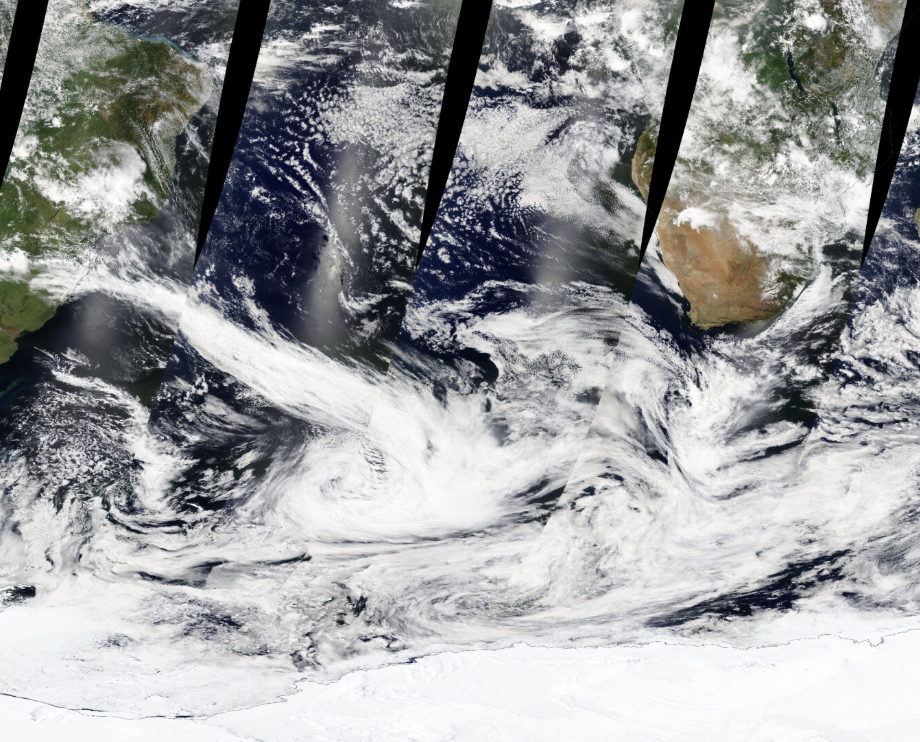
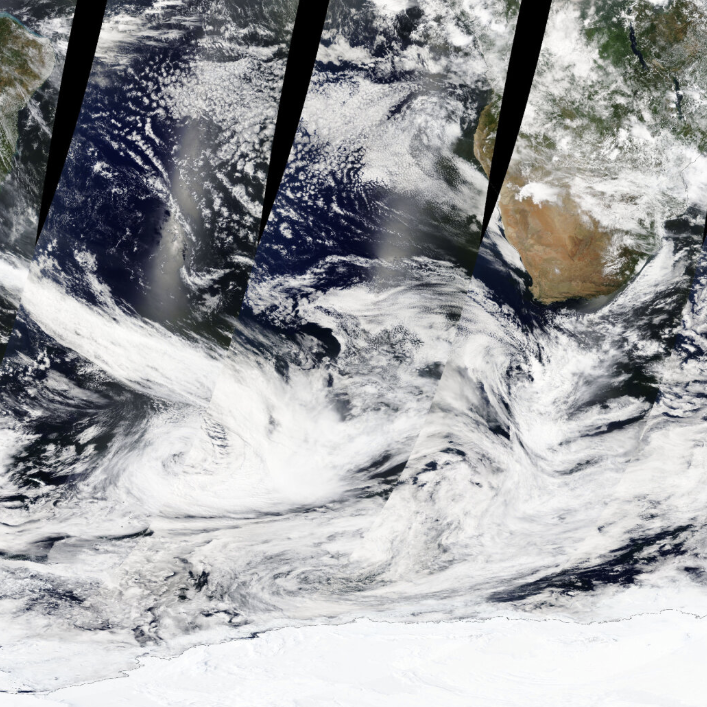
projects update

diff --git a/_sass/_variables.scss b/_sass/_variables.scss
@@ -63,8 +63,8 @@ $darker-gray                : mix(#000, $gray, 60%);
 $light-gray                 : mix(#fff, $gray, 50%);
 $lighter-gray               : mix(#fff, $gray, 90%);
 
-$body-color                 : #f8f5f2;
-$background-color           : #f8f5f2;
+$body-color                 : #fdfbfb;
+$background-color           : #fdfbfb;
 $code-background-color      : #efece9;
 $code-background-color-dark : $light-gray;
 $text-color                 : $darker-gray;

diff --git a/_sass/_page.scss b/_sass/_page.scss
@@ -259,7 +259,7 @@
 
 .page__meta {
   margin-top: 2em;
-  color: mix(#fff, $gray, 25%);
+  color: mix(#fff, $gray, 100%);
   font-family: $sans-serif;
   font-size: $type-size-6;
 

diff --git a/_pages/research.md b/_pages/research.md
@@ -13,44 +13,39 @@ redirect_from:
 # Research
 ---
 
-<br>
-
-<div class="team-row" style="display: flex; gap: 1.5rem; margin-top: 1rem; align-items: flex-start;">
-
-  <div style="flex: 0 0 75%;">
-    <h3 style="margin-top: 0;">Fine-scale ocean dynamics</h3>
-    <p style="text-align: left; font-size: 0.9rem;">
-      My research is primarily centered on fine-scale ocean dynamics, in particular the energetic fronts, filaments, and submesoscale eddies that are ubiquitous in the upper ocean, especially in the stormy Southern Ocean. These features are typically only a few to tens of kilometers wide, but they can extend hundreds of kilometers in length and penetrate hundreds of meters deep, where they stir and overturn water masses, sharpen density gradients, and drive vigorous vertical motions. When they do so, they strongly modulate air–sea exchanges of heat, moisture, and carbon dioxide, imprinting the passage of storms on the upper ocean and shaping the structure and variability of the ocean mixed layer.
-      
-      <br><br>
-
-      Fine-scale fronts and filaments are numerous, collectively influencing how efficiently the ocean takes up anthropogenic heat and CO2, and how that uptake is distributed in space and depth. Biases in the representation of these small-scale processes in climate models can therefore lead to errors in simulated stratification, mixed-layer depth, and air–sea fluxes, with knock-on effects for large-scale ocean circulation and climate projections. To better understand and constrain these dynamics, I combine multi-platform observations from autonomous ocean robotics, research vessels, and satellites with high-resolution coupled models and boundary-layer frameworks.
-    </p>
-  </div>
-
-  <div class="photo-frame" style="flex: 0 0 25%;">
-    <img src="/images/sms_schematic.png" alt="sms-schematic" style="width: 100%; height: auto;">
-  </div>
-
-</div>
+Our research aims to uncover small-scale ocean dynamics and their interactions with the atmosphere so that we can better understand our Earth system, and the role of unseen processes on the changing climate. 
 
 <br>
 
-<div class="team-row" style="display: flex; gap: 1.5rem; margin-top: 1rem; align-items: flex-start;">
-  <div class="photo-frame" style="flex: 0 0 30%;">
-    <img src="/images/storm-so.png" alt="sms-schematic" style="width: 100%; height: auto;">
+<div style="display: flex; flex-wrap: wrap; gap: 5rem; margin-top: 1rem; align-items: flex-start;">
+
+  <div style="flex: 1 1 200px; min-width: 0; text-align: center;">
+    <a href="/fine-scale-dynamics/">
+      <img src="/images/spiral-eddies.jpeg" alt="sms-schematic" style="width: 100%; height: auto; border-radius: 6px;">
+    </a>
+    <h3 style="margin-top: 1rem;">
+      <a href="/fine-scale-dynamics/">Ocean fine-scale dynamics</a>
+    </h3>
   </div>
 
-  <div style="flex: 0 0 70%;">
-    <h3 style="margin-top: 0;">Storm dynamics</h3>
-    <p style="text-align: left; font-size: 0.9rem;">
-      My research also focuses on storm dynamics, particularly how extratropical storms in the Southern Ocean mix and ventilate the upper few hundred meters of the ocean. As storms pass, their intense winds, rain, and rapidly evolving atmospheric fronts drive strong turbulent mixing, deepen the mixed layer, and tilt and sharpen ocean fronts, leaving behind vertical and lateral structure that can persist long after the weather has moved on. These episodic events strongly modulate air–sea exchanges of heat and carbon dioxide, imprinting high-frequency variability on fluxes that can integrate over seasons to influence the net uptake of anthropogenic heat and CO2 by the Southern Ocean.
-
-      <br><br>
-      
-      Storm systems are frequent and energetic, especially in the high-latitude Southern Ocean, playing a disproportionate role in setting the seasonal cycle of upper-ocean stratification, sea-surface temperature, and surface CO2. Biases in how storms and their associated mixing are represented in models can therefore translate into errors in simulated air–sea fluxes and climate feedbacks. To investigate these processes, I combine targeted storm-following observations from autonomous platforms such as gliders and Wave Gliders with ship-based measurements, satellites, and mixed-layer and boundary-layer models that resolve the coupled evolution of storms and the ocean beneath them.
-    </p>
+  <div style="flex: 1 1 200px; min-width: 0; text-align: center;">
+    <a href="/air-sea-interactions/">
+      <img src="/images/airsea.jpg" alt="storm-so" style="width: 100%; height: auto; border-radius: 6px;">
+    </a>
+    <h3 style="margin-top: 1rem;">
+      <a href="/air-sea-interactions/">Air-sea interactions</a>
+    </h3>
   </div>
+
+  <div style="flex: 1 1 200px; min-width: 0; text-align: center;">
+    <a href="/antarctic-sea-ice/">
+      <img src="/images/sea-ice-square.jpg" alt="sea-ice" style="width: 100%; height: auto; border-radius: 6px;">
+    </a>
+    <h3 style="margin-top: 1rem;">
+      <a href="/sea-ice-antarctica/">Antarctic sea-ice processes</a>
+    </h3>
+  </div>  
+
 </div>
 
 <br>
@@ -58,12 +53,11 @@ redirect_from:
 # Current projects
 ---
 
-I have recieved several grants and awards that support my research, with a total value of 40 million SEK. My ongoing projects include:
-
-
-- European Research Council (ERC) Starting Grant [Southern Ocean Fine-Scale Interactions with the Atmosphere (SOFIA)](https://www.gu.se/en/news/erc-starting-grant-to-research-on-southern-oceans-critical-climate-function), 2026-2031.
-- Vetenskapsrådet (VR) Establishment Grant: [Storm impacts on Southern Ocean heat and CO2 uptake uncertainty](https://www.gu.se/en/research/how-understanding-storms-reduces-southern-ocean-heat-and-co2-uptake-uncertainty), 2025-2028.
-- Carl Tryggers Foundation Grant: [Observing and quantifying the effects of atmospheric storms on air-sea heat exchange](https://www.carltryggersstiftelse.se/this-is-the-carl-trygger-foundation/), 2026-2028.
+- European Research Council (ERC) Starting Grant [Southern Ocean Fine-Scale Interactions with the Atmosphere (SOFIA)](https://www.gu.se/en/news/erc-starting-grant-to-research-on-southern-oceans-critical-climate-function), 2026-2031
+- Vetenskapsrådet Strategic Funding: The Southern Ocean as Earth's Thermostat: Driving Forces, Variability, and Predictability, 2026-2031
+- Carl Tryggers Foundation Grant: Observing and quantifying the effects of atmospheric storms on air-sea heat exchange, 2026-2028
+- Synchronous Southern Ocean Observatory (SYNCHRONY, Horizon Europe), 2026-2030
+- WHIRLS, The impacts of ocean fine-scale whirls on climate and ecosystems, 2024-2030
 
 <br><br>
 
@@ -74,10 +68,6 @@ I have recieved several grants and awards that support my research, with a total
 
   <div class="logo" style="text-align: center;">
     <img src="/images/sofia.png" alt="sofia" style="width: 100%; max-width: 350px;">
-  </div>
-
-  <div class="logo" style="text-align: center;">
-    <img src="/images/erc.png" alt="erc" style="width: 80%; max-width: 250px;">
   </div>
 
   <a href="https://marcelduplessis.github.io/sofia/" class="btn" style="margin-top: 0.5rem;">
@@ -91,11 +81,11 @@ I have recieved several grants and awards that support my research, with a total
   <h2 style="margin-top: 0;">Southern Ocean Fine-Scale Interactions with the Atmosphere (SOFIA)</h2>
 
   <a href="https://erc.europa.eu/apply-grant/starting-grant">European Research Council Starting Grant</a> under Horizon Europe, 2026-2031<br>
-  <strong>Funding:</strong> 2.5m € + 3.75m SEK as GU co-financing
+  <strong>Funding:</strong> 30.5 million SEK
 
-  <p>The SOFIA project aims to uncover the key physical processes that move heat between the atmosphere, the ocean surface, and the deep ocean in the stormy Southern Ocean. My research explores two main questions: how powerful storms drive the exchange of heat between air and sea, and how swirling ocean fronts, eddies, and narrow filaments transport that heat into the ocean interior.</p>
+  <p>The SOFIA project explores two main questions: how powerful storms drive the exchange of heat between air and sea, and how swirling ocean fronts, eddies, and narrow filaments transport that heat into the ocean interior.</p>
 
-  <p>To tackle these challenges, I combine cutting-edge coupled ocean-atmosphere simulations with new in-situ observations collected by autonomous robotic platforms in one of the most remote parts of the planet. I also use data from ESA’s Surface Water and Ocean Topography (SWOT) satellite to map vertical ocean motion across the entire Southern Ocean.</p>
+  <p>To answer these questions, we combine cutting-edge coupled ocean-atmosphere simulations with new in-situ observations collected by autonomous robotic platforms in one of the most remote parts of the planet. We will also take advantage of ESA’s Surface Water and Ocean Topography (SWOT) satellite to map vertical ocean motion across the entire Southern Ocean.</p>
 
   <p>Together, these efforts will build a clearer and more predictive understanding of how the ocean regulates Earth’s climate — knowledge that’s essential for improving future climate projections.</p>
 

diff --git a/_pages/about.md b/_pages/about.md
@@ -9,23 +9,28 @@ author_profile: true
 #   caption: "Credit: Hector Torres @ JPL-NASA"
 ---
   
-# About
+# Welcome
 
-I am a physical oceanographer at the [Department of Marine Sciences](https://www.gu.se/en/marina-vetenskaper), University of Gothenburg. I lead a research team interested in the physical processes governing the exchange of heat, moisture, and carbon dioxide between the ocean and atmosphere. We focus on how ocean dynamics of scales 1-100 km and rapdily evolving atmospheric weather systems control the exchange of these climate-critical properties across the air-sea interface and into the ocean interior. Our goal is to advance our understanding of the factors that regulate our changing climate.
+I'm a physical oceanographer at the [Department of Marine Sciences](https://www.gu.se/en/marina-vetenskaper), University of Gothenburg. My research focuses on the physical processes governing the exchange of heat, moisture, and carbon dioxide between the ocean and atmosphere. I work with a team of talented and hard working people, with a goal to advance our understanding of the ocean's role in our climate. Specifically, we focus on how ocean dynamics, ranging from microscale turbulence to mesoscale dynamics, interact with rapdily evolving atmospheric weather systems to control the transfer of climate-critical properties across the air-sea interface and into the ocean interior. 
 
-Our research is supported by a Swedish Research Council Establishment Grant (2025-2028), an ERC Starting Grant (SOFIA, 2026-2031), and a Carl Tryggers Foundation Equipment Grant (2026-2028). You can read more about our newly funded [SOFIA project](https://marcelduplessis.github.io/sofia/) and the [Swedish Research Council project](https://www.gu.se/en/research/how-understanding-storms-reduces-southern-ocean-heat-and-co2-uptake-uncertainty). Please get in touch if you are interested in collaborating or joining our team.
+**My research is supported by several ongoing projects, including:**
+
+- Vetenskapsrådet Strategic Recruitment Funding (2026-2031)
+- European Research Council Starting Grant (SOFIA, 2026-2031)
+- Carl Tryggers Foundation Equipment Grant (2026-2028)
+- SYNCHRONY (2026-2030)
+
+Read more about the [SOFIA project](https://marcelduplessis.github.io/sofia/) and the [Swedish Research Council project](https://www.gu.se/en/research/how-understanding-storms-reduces-southern-ocean-heat-and-co2-uptake-uncertainty). 
 
 <!-- I completed my PhD in physical oceanography at the University of Cape Town and Southern Ocean Carbon Climate Observatory, followed by a Marie Skłodowska-Curie Fellowship in Sweden that focused on autonomous observations and air–sea exchange in the Southern Ocean. Now, -->
 
-## We are hiring!
+## Interested in joining us?
 
-We are looking for a highly motivated and curious **Data Coordinator** to join our team and help facilitate our ocean research through improved data management of our unique observational datasets. This will be a 3-year full-time position. The application closes 20 June 2026. For more information, click below. 
+Please get in touch if you are interested in collaborating or joining our team. We are always open for motivated and curious people. We have several upcoming opportunities:
 
-<div style="display: flex; flex-wrap: wrap; gap: 2rem; margin-top: 1rem; align-items: flex-start;">
-
-  <a href="https://web103.reachmee.com/ext/I005/1035/job?site=6&lang=SE&validator=3038fcf1516ea1184a6da70a891f87da&job_id=p40140" class="btn" style="margin-top: 0.5rem;">Apply here</a>
-
-</div>
+- We plan to open two Postdoc positions within the SOFIA project starting early-to-mid 2027. 
+- For student bachelors and masters research projects, please get in touch.
+- I’m happy to support fellowship applications, such as the [Marie Skłodowska-Curie Fellowship](https://marie-sklodowska-curie-actions.ec.europa.eu/actions/postdoctoral-fellowships), [VR International Postdoc](https://www.vr.se/english/applying-for-funding/calls/2025-11-11-international-postdoc-within-natural-and-engineering-sciences-spring-call.html) (17/02 deadline), and [Carl Tryggers Postdoc](https://www.carltryggersstiftelse.se/this-is-the-carl-trygger-foundation/) (14/05 deadline). Reach out to discuss project options.
 
 ## News
 
@@ -50,11 +55,13 @@ We are looking for a highly motivated and curious **Data Coordinator** to join o
   <img src="images/seaglider.jpg" alt="SG">
   <img src="images/ctd.jpg" alt="CTD">
   <img src="images/sailbuoy.jpeg" alt="SB">
-  <img src="images/wave-glider.jpg" alt="WG">
+  <img src="images/xspar-marion2.jpg" alt="WG">
+  <br>
   <br>
 </div>
 
-The above pictures show the autonomous platforms we use in our research, including the Seaglider (top left), Wave Glider (bottom right), and Sailbuoy (bottom left). The top right picture illustrates a fundamnetally important tool used for ocean research: the CTD, taken during the SO-CHIC Southern Ocean field campaign. Photo credits: Louise Biddle (Seaglider) and Pedro Monteiro (Wave Glider), Timo Hecken (Sailbuoy).
+
+**Autonomous platforms support our research.** Seaglider (top left), X-Spar (bottom right), and Sailbuoy (bottom left). The top right picture illustrates a fundamnetally important tool used for ocean research: the CTD, taken during the SO-CHIC Southern Ocean field campaign. Photo credits: Louise Biddle (Seaglider) and Emerick Missud (X-Spar), Timo Hecken (Sailbuoy).
 
 I have been fortunate to be able to deploy these autonomous platforms far out into the ocean on [several research expiditions](https://marcelduplessis.github.io/fieldwork/), with my first experience to the Southern Ocean and Antarctica during my honours year at the University of Cape Town. To date I have participated in seven research expeditions on several world class vessels. I am hugely grateful to those who have provided the opportunity for me to build my career as a sea going oceanographer.
 

diff --git a/_pages/group.md b/_pages/group.md
@@ -84,35 +84,6 @@ redirect_from:
 
 <br>
 
-<!-- Lovisa -->
-<div class="team-row" style="display: flex; gap: 1.5rem; margin-top: 1rem; align-items: flex-start;">
-  <div style="flex: 0 0 25%; text-align: center;">
-    <img src="/images/lovisa.jpeg" alt="Lovisa" style="
-      width: 100%;
-      max-width: 220px;
-      border-radius: 50%;
-      object-fit: cover;
-      border: 1px solid #ccc;
-      padding: 4px;
-      box-sizing: border-box;
-    ">
-  </div>
-
-  <div style="flex: 0 0 75%;">
-    <h3 style="margin-top: 0;">Lovisa Sunnercrantz (MSc)</h3>
-    <p style="text-align: left; font-size: 0.9rem;">
-      Lovisa is a masters student in Physical Oceanography at the University of Gothenburg.
-      She is doing her one-year masters thesis with us focusing on estimating vertical velocities
-      and vertical exchange at meso- to submesoscale fronts in the Cape Basin, using autonomous
-      glider observations and satellite altimetry.
-      <br><br>
-      Outside of her studies, she loves diving and enjoys climbing and spending time with friends. Lovisa is co-supervied by Seb Swart (GU) and Elisa Carli (ESA), and recently spent 1.5 months visitng Elisa in Frascati.
-    </p>
-  </div>
-</div>
-
-<br>
-
 <!-- Julia -->
 <div class="team-row" style="display: flex; gap: 1.5rem; margin-top: 1rem; align-items: flex-start;">
   <div style="flex: 0 0 25%; text-align: center;">
@@ -224,16 +195,18 @@ redirect_from:
 ---
 
 ## PhD GRADUATES:
-**Theo Spira** (University of Gothenburg, 2025). Supervised with Prof. Sebastiaan Swart (GU), main collaborator Prof. Alex Haumann (AWI). Thesis: [*Antarctic Winter Water: its role in Southern Ocean dynamics and sea ice variability*](https://gupea.ub.gu.se/handle/2077/88832). Publications: [1] [Observed Spatiotemporal Variability of Antarctic Winter Water](https://agupubs.onlinelibrary.wiley.com/doi/full/10.1029/2024JC021017). 
+**Theo Spira** (University of Gothenburg, 2025). Supervised with Prof. Sebastiaan Swart (GU), main collaborator Prof. Alex Haumann (AWI). Thesis: [*Antarctic Winter Water: its role in Southern Ocean dynamics and sea ice variability*](https://gupea.ub.gu.se/handle/2077/88832). Publications: [1] [Observed Spatiotemporal Variability of Antarctic Winter Water](https://agupubs.onlinelibrary.wiley.com/doi/full/10.1029/2024JC021017), [2] [Wind-triggered Antarctic sea ice decline preconditioned by thinning Winter Water](https://doi.org/10.1038/s41558-026-02601-4). 
 
 ## MASTERS:
-**Renske Koets** (M.Sc. Oceanography, University of Gothenburg, 2025). Supervised with Prof. Sebastiaan Swart (GU), main collaborator Prof. Kathy Donohue (URI). Thesis: [*Vertical circulation in the Cape Cauldron using Apparent Oxygen Utilization*](https://drive.google.com/file/d/1-lTPztVAWnn7To0waB7hdGqdkv127Ojq/view?usp=sharing). 
+**Lovisa Sunnercrantz** (M.Sc. Oceanography, University of Gothenburg, 2026). Supervised with Prof. Sebastiaan Swart (GU) and Dr. Elisa Carli (ESA). Thesis: [*Observation-based estimates of vertical velocities and vertical heat transport in the Cape Basin*](https://drive.google.com/file/d/1KUIui1oLnM75vAtK4jwZQfZt9UrgncgH/view?usp=sharing). 
+
+**Renske Koets** (M.Sc. Oceanography, University of Gothenburg, 2025). Supervised with Prof. Sebastiaan Swart (GU), main collaborator Prof. Kathy Donohue (URI). Thesis: [*Vertical circulation in the Cape Cauldron using Apparent Oxygen Utilization*](https://drive.google.com/file/d/1-lTPztVAWnn7To0waB7hdGqdkv127Ojq/view?usp=sharing). Publication: [Observations of tracer ventilation in the Cape Basin, Agulhas Current Retroflection](https://os.copernicus.org/articles/22/209/2026/)
 
 **Gonzalo Ruiz** (M.Sc. Oceanography, University of Gothenburg, 2025). Supervised with Prof. Sebastiaan Swart, main collaborator Dr. Sarah Nicholson (SOCCO, CSIR). Thesis: [*Drivers of CO2 variability in the Cape Cauldron using Wave Glider data*](https://drive.google.com/file/d/14WFwpTgTkj6Oc5l6BfeM0IbmQISKNzA6/view?usp=sharing). 
 
 **Michaela Edwinson** (M.Sc. Oceanography, University of Gothenburg, 2024). Supervised with Prof. Sebastiaan Swart (GU). Thesis: [*Drivers of Air-sea heat flux in the Cape Basin*.](https://drive.google.com/file/d/1r2tCWApb5wiI1r_W-N_nyrWq0D2Kk3bV/view?usp=sharing) 
 
-**Blandine Jacobs** (M.Sc. Oceanography, University of Gothenburg, 2024). Supervised with Dr. Bastien Queste (GU). Thesis: [*Time and space variability of air-sea heat fluxes in the Amundsen Sea*](https://drive.google.com/file/d/1LiKoGV6pL5yHxWeyPfCcJ1jZjFmprXbD/view?usp=sharing). Publication: [Jacob et al. 2025](https://os.copernicus.org/articles/21/359/2025/). Thesis awarded as 2nd best Marine Science masteers thesis in Sweden. 
+**Blandine Jacobs** (M.Sc. Oceanography, University of Gothenburg, 2024). Supervised with Dr. Bastien Queste (GU). Thesis: [*Time and space variability of air-sea heat fluxes in the Amundsen Sea*](https://drive.google.com/file/d/1LiKoGV6pL5yHxWeyPfCcJ1jZjFmprXbD/view?usp=sharing). Publication: [Turbulent heat flux dynamics along the Dotson and Getz ice-shelf fronts (Amundsen Sea, Antarctica)](https://os.copernicus.org/articles/21/359/2025/). Thesis awarded as 2nd best Marine Science masteers thesis in Sweden. 
 
 **Bongiwe Jojo** (M.Sc. University of Cape Town, 2024) Supervised with: Dr. Sarah Nicholson (SOCCO/CSIR). Thesis: [*Understanding the interannual variability of pCO2 in the sea-ice impacted the Southern Ocean*](https://drive.google.com/file/d/1ky_YR5nrEjIvkbB2-AyvL4qzaNe6s2Zt/view?usp=sharing).
 

diff --git a/_pages/air-sea-interactions.md b/_pages/air-sea-interactions.md
@@ -1,0 +1,27 @@
+---
+layout: archive
+title: " "
+permalink: /storm-dynamics/
+author_profile: false
+redirect_from:
+  - /storm-dynamics
+---
+
+<div class="team-row" style="
+  display: flex;
+  flex-wrap: wrap;
+  justify-content: space-between;
+  align-items: center;
+  gap: 1.5rem;
+  margin-top: 1.0rem;
+">
+  <div class="logo" style="flex: 1; text-align: center;">
+    <img src="/images/storm-so.png" alt="storm-so" style="width: 100%; max-width: 600px; height: 250px; object-fit: contain;">
+  </div>
+</div>
+
+<h1>Storm dynamics</h1>
+
+<p>My research also focuses on storm dynamics, particularly how extratropical storms in the Southern Ocean mix and ventilate the upper few hundred meters of the ocean. As storms pass, their intense winds, rain, and rapidly evolving atmospheric fronts drive strong turbulent mixing, deepen the mixed layer, and tilt and sharpen ocean fronts, leaving behind vertical and lateral structure that can persist long after the weather has moved on. These episodic events strongly modulate air–sea exchanges of heat and carbon dioxide, imprinting high-frequency variability on fluxes that can integrate over seasons to influence the net uptake of anthropogenic heat and CO2 by the Southern Ocean.</p>
+
+<p>Storm systems are frequent and energetic, especially in the high-latitude Southern Ocean, playing a disproportionate role in setting the seasonal cycle of upper-ocean stratification, sea-surface temperature, and surface CO2. Biases in how storms and their associated mixing are represented in models can therefore translate into errors in simulated air–sea fluxes and climate feedbacks. To investigate these processes, I combine targeted storm-following observations from autonomous platforms such as gliders and Wave Gliders with ship-based measurements, satellites, and mixed-layer and boundary-layer models that resolve the coupled evolution of storms and the ocean beneath them.</p>

diff --git a/_pages/fine-scale-dynamics.md b/_pages/fine-scale-dynamics.md
@@ -1,0 +1,14 @@
+---
+layout: archive
+title: " "
+permalink: /fine-scale-dynamics/
+author_profile: false
+redirect_from:
+  - /fine-scale-dynamics
+---
+
+<h1>Ocean fine-scale dynamics</h1>
+
+<p>Energetic ocean fronts, filaments, and submesoscale eddies are ubiquitous in the upper ocean. These features are typically only a few to tens of kilometers wide, but they can extend hundreds of kilometers in length and penetrate hundreds of meters deep, where they stir and overturn water masses, sharpen density gradients, and drive vigorous vertical motions. When they do so, they strongly modulate air–sea exchanges of heat, moisture, and carbon dioxide, imprinting the passage of storms on the upper ocean and shaping the structure and variability of the ocean mixed layer.</p>
+
+<p>Fine-scale fronts and filaments are numerous, collectively influencing how efficiently the ocean takes up anthropogenic heat and CO2, and how that uptake is distributed in space and depth. Biases in the representation of these small-scale processes in climate models can therefore lead to errors in simulated stratification, mixed-layer depth, and air–sea fluxes, with knock-on effects for large-scale ocean circulation and climate projections. To better understand and constrain these dynamics, I combine multi-platform observations from autonomous ocean robotics, research vessels, and satellites with high-resolution coupled models and boundary-layer frameworks.</p>

diff --git a/_publications/2026-01-20-edholm-usv.md b/_publications/2026-01-20-edholm-usv.md
@@ -1,5 +1,5 @@
 ---
 title: "Assessing the accuracy of turbulent air-sea heat flux observations from a small sailing USV"
-citation: "Edholm, J., **du Plessis, M.D**., Swart, S. Assessing the accuracy of turbulent air-sea heat flux observations from a small sailing USa. *JTECH.*"
+citation: "Edholm, J., **du Plessis, M.D**., Swart, S. Assessing the accuracy of turbulent air-sea heat flux observations from a small sailing USV. *JTECH.*"
 category: submitted
 ---

diff --git a/_publications/2026-08-27-prend-imb.md b/_publications/2026-08-27-prend-imb.md
@@ -1,0 +1,5 @@
+---
+title: "Impact of synoptic storms and ocean forcing on observed sea ice variability in the Weddell Sea marginal ice zone"
+citation: "Prend, C.J., Biddle, L.C., Swart, S., **du Plessis, M.D**., Swart, S. Impact of synoptic storms and ocean forcing on observed sea ice variability in the Weddell Sea marginal ice zone. *GRL.*"
+category: submitted
+---
